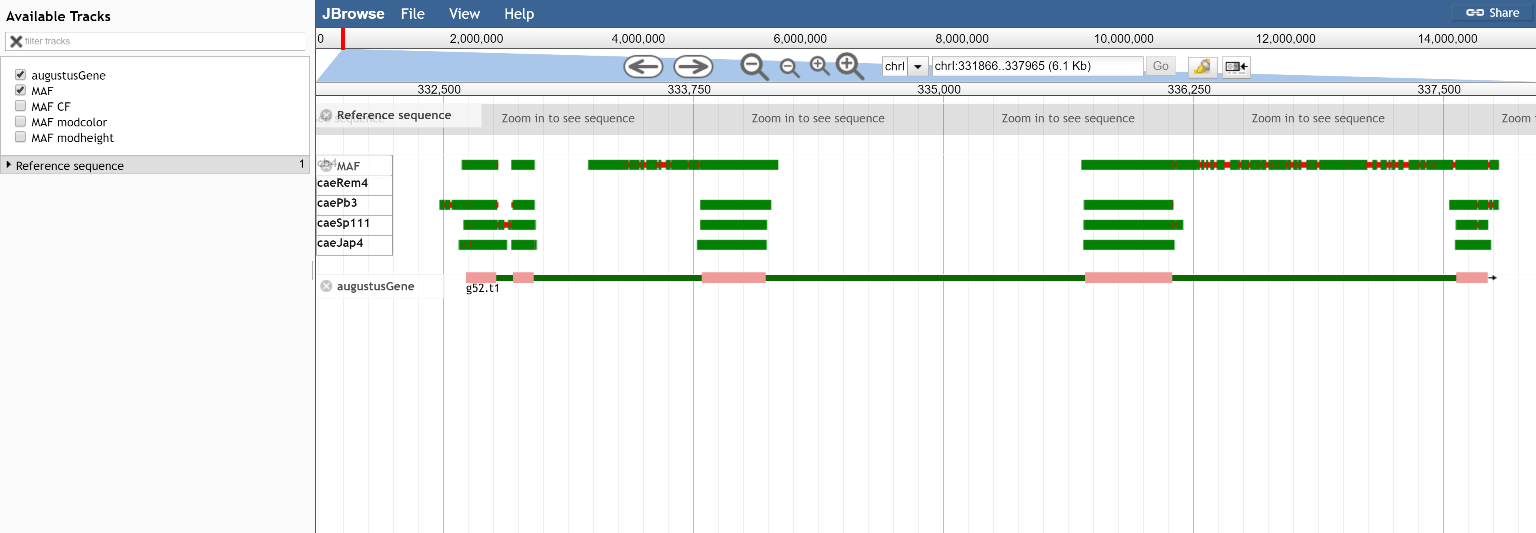
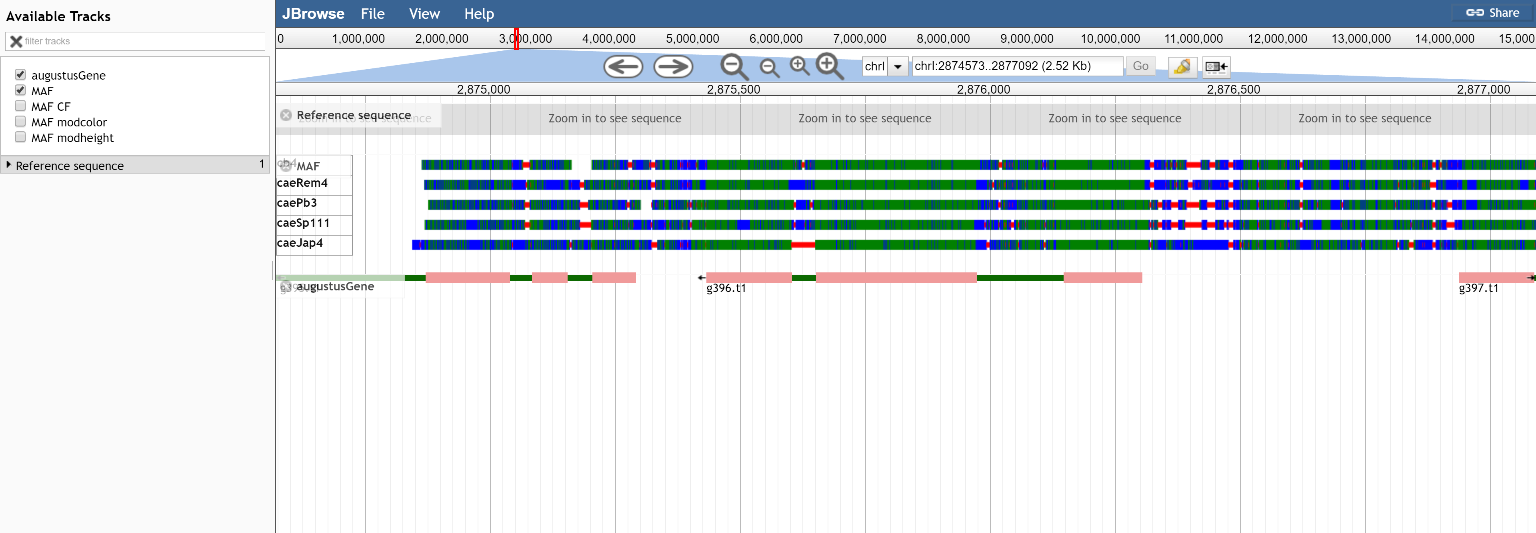
Separate gapColor and mismatchColor

diff --git a/js/View/FeatureGlyph/MAF.js b/js/View/FeatureGlyph/MAF.js
@@ -19,6 +19,7 @@ function (
             var s = fRect.f.get('start');
             var h = this.config.style.height;
             var vals = fRect.f.get('alignments');
+            var seq = fRect.f.get('seq');
 
             this.config.samples.forEach(function (key) {
                 if (vals[key]) {
@@ -28,8 +29,11 @@ function (
                         var left = fRect.viewInfo.block.bpToX(s + i);
                         var right = fRect.viewInfo.block.bpToX(s + i + 1);
                         if (alignment[i] === '-') {
-                            context.fillStyle = thisB.config.style.mismatchColor;
+                            context.fillStyle = thisB.config.style.gapColor;
                             context.fillRect(left, 3 / 8 * h + h * pos, right - left + 0.6, h / 4);
+                        } else if (seq[i] !== alignment[i]) {
+                            context.fillStyle = thisB.config.style.mismatchColor;
+                            context.fillRect(left, 1 / 4 * h + h * pos, right - left + 0.6, h / 2);
                         } else {
                             context.fillStyle = thisB.config.style.matchColor;
                             context.fillRect(left, 1 / 4 * h + h * pos, right - left + 0.6, h / 2);

diff --git a/js/View/Track/MAF.js b/js/View/Track/MAF.js
@@ -22,8 +22,9 @@ function (
                 labelWidth: 75,
                 style: {
                     height: 20,
-                    mismatchColor: 'red',
-                    matchColor: 'green'
+                    mismatchColor: 'blue',
+                    matchColor: 'green',
+                    gapColor: 'red'
                 }
             });
         },

diff --git a/js/Store/SeqFeature/MAF.js b/js/Store/SeqFeature/MAF.js
@@ -60,7 +60,8 @@ function (
                 seq_id: line.ref,
                 name: fields[3],
                 score: +fields[4],
-                alignments: alignments
+                alignments: alignments,
+                seq: alns[0]
             };
 
             var f = new SimpleFeature({

diff --git a/README.md b/README.md
@@ -24,7 +24,8 @@ Then you can bgzip and tabix index this file.
 - samples - an array of species in the MAF file (e.g. hg38, mm10, etc.)
 - labelWidth - an integer width for labels (default: 100)
 - style.matchColor - color to use for matches (default: green)
-- style.mismatchColor - color to use for mismatches (default: red)
+- style.mismatchColor - color to use for mismatches (default: blue)
+- style.gapColor - color to use for gaps in alignment (default: red)
 
 ## Example config
 
